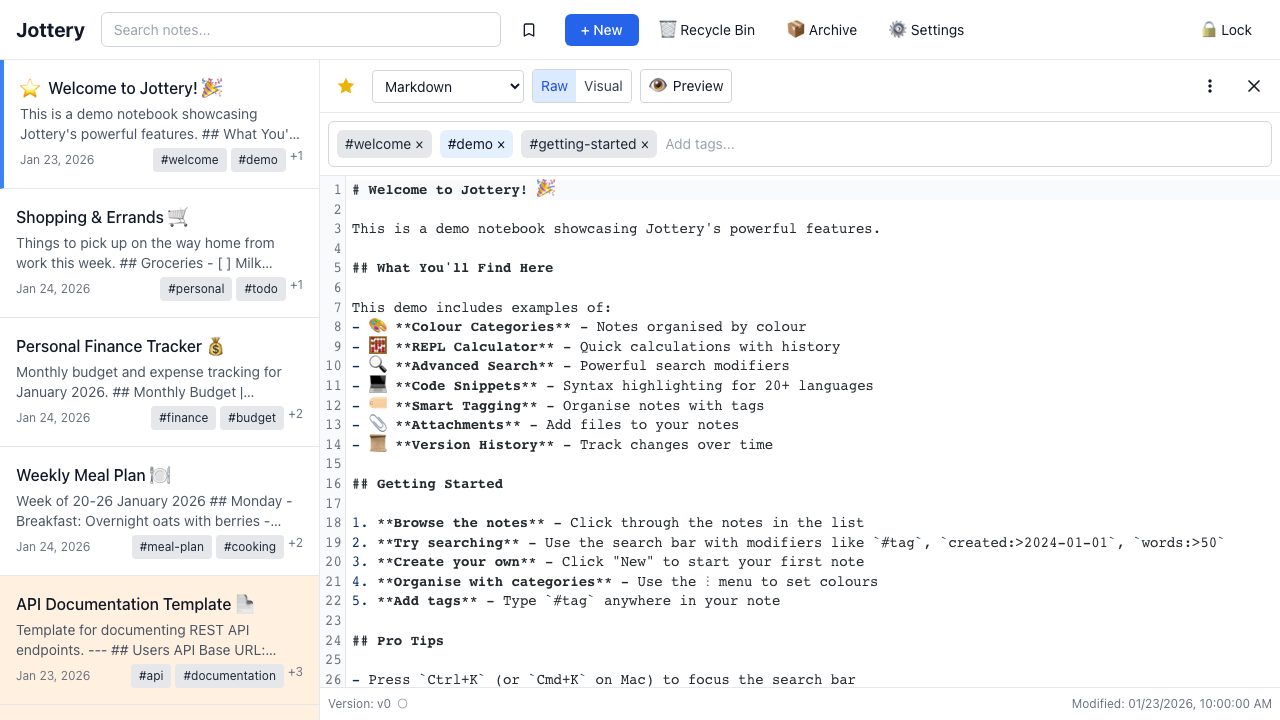
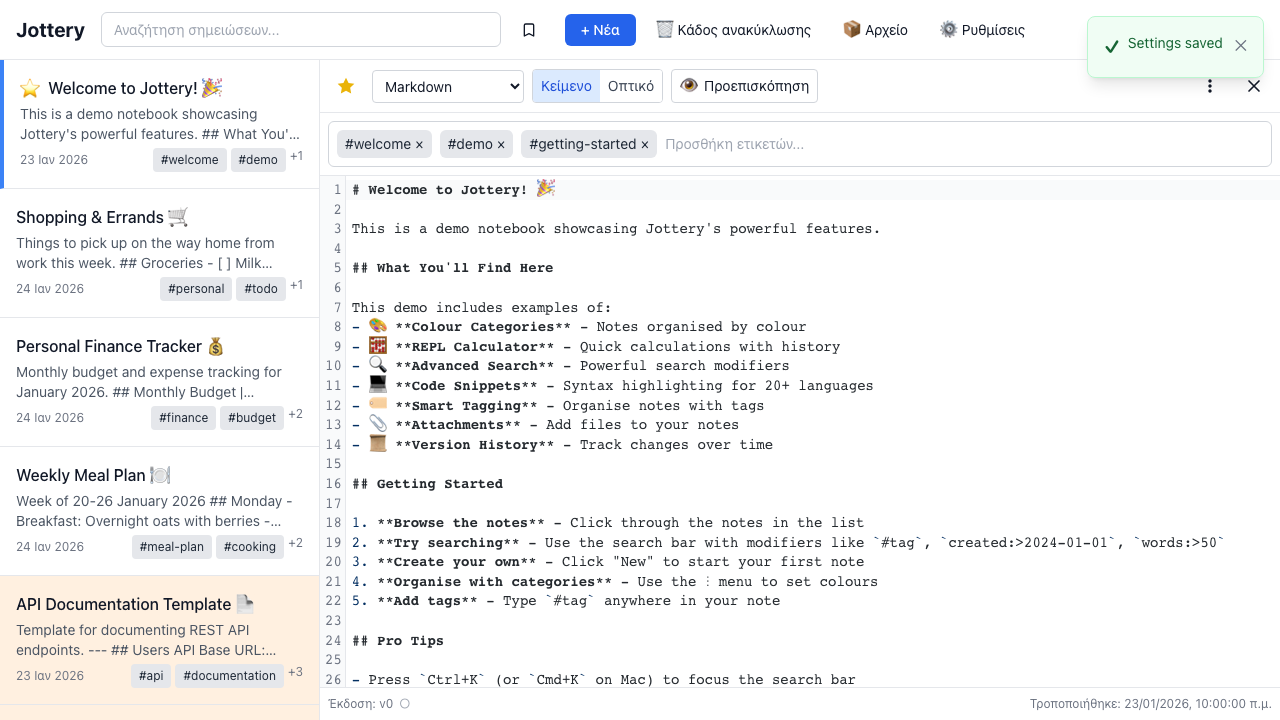
fix: Save settings before closing modal in Greek UI screenshots
The language change wasn't being applied because the settings modal
was closed with Escape instead of clicking Save Settings.

diff --git a/demo-generation/playwright/screenshots.spec.ts b/demo-generation/playwright/screenshots.spec.ts
@@ -1570,9 +1570,11 @@ test.describe('Landing Page Screenshots - Greek UI Light', () => {
     await languageDropdown.selectOption('el');
     await page.waitForTimeout(1000);
 
-    // Close settings modal
-    await page.keyboard.press('Escape');
-    await page.waitForTimeout(500);
+    // Save settings to apply the language change
+    const saveButton = modal.locator('button').filter({ hasText: /Save Settings/i }).first();
+    await saveButton.waitFor({ state: 'visible' });
+    await saveButton.click();
+    await page.waitForTimeout(1500); // Wait for language to apply
   });
 
   test('10-light. Greek UI - Multi-lingual', async ({ page }) => {
@@ -1664,9 +1666,11 @@ test.describe('Landing Page Screenshots - Greek UI Dark', () => {
     await languageDropdown.selectOption('el');
     await page.waitForTimeout(1000);
 
-    // Close settings modal
-    await page.keyboard.press('Escape');
-    await page.waitForTimeout(500);
+    // Save settings to apply the language change
+    const saveButton = modal.locator('button').filter({ hasText: /Save Settings/i }).first();
+    await saveButton.waitFor({ state: 'visible' });
+    await saveButton.click();
+    await page.waitForTimeout(1500); // Wait for language to apply
 
     // Apply dark theme
     await page.evaluate(() => {
